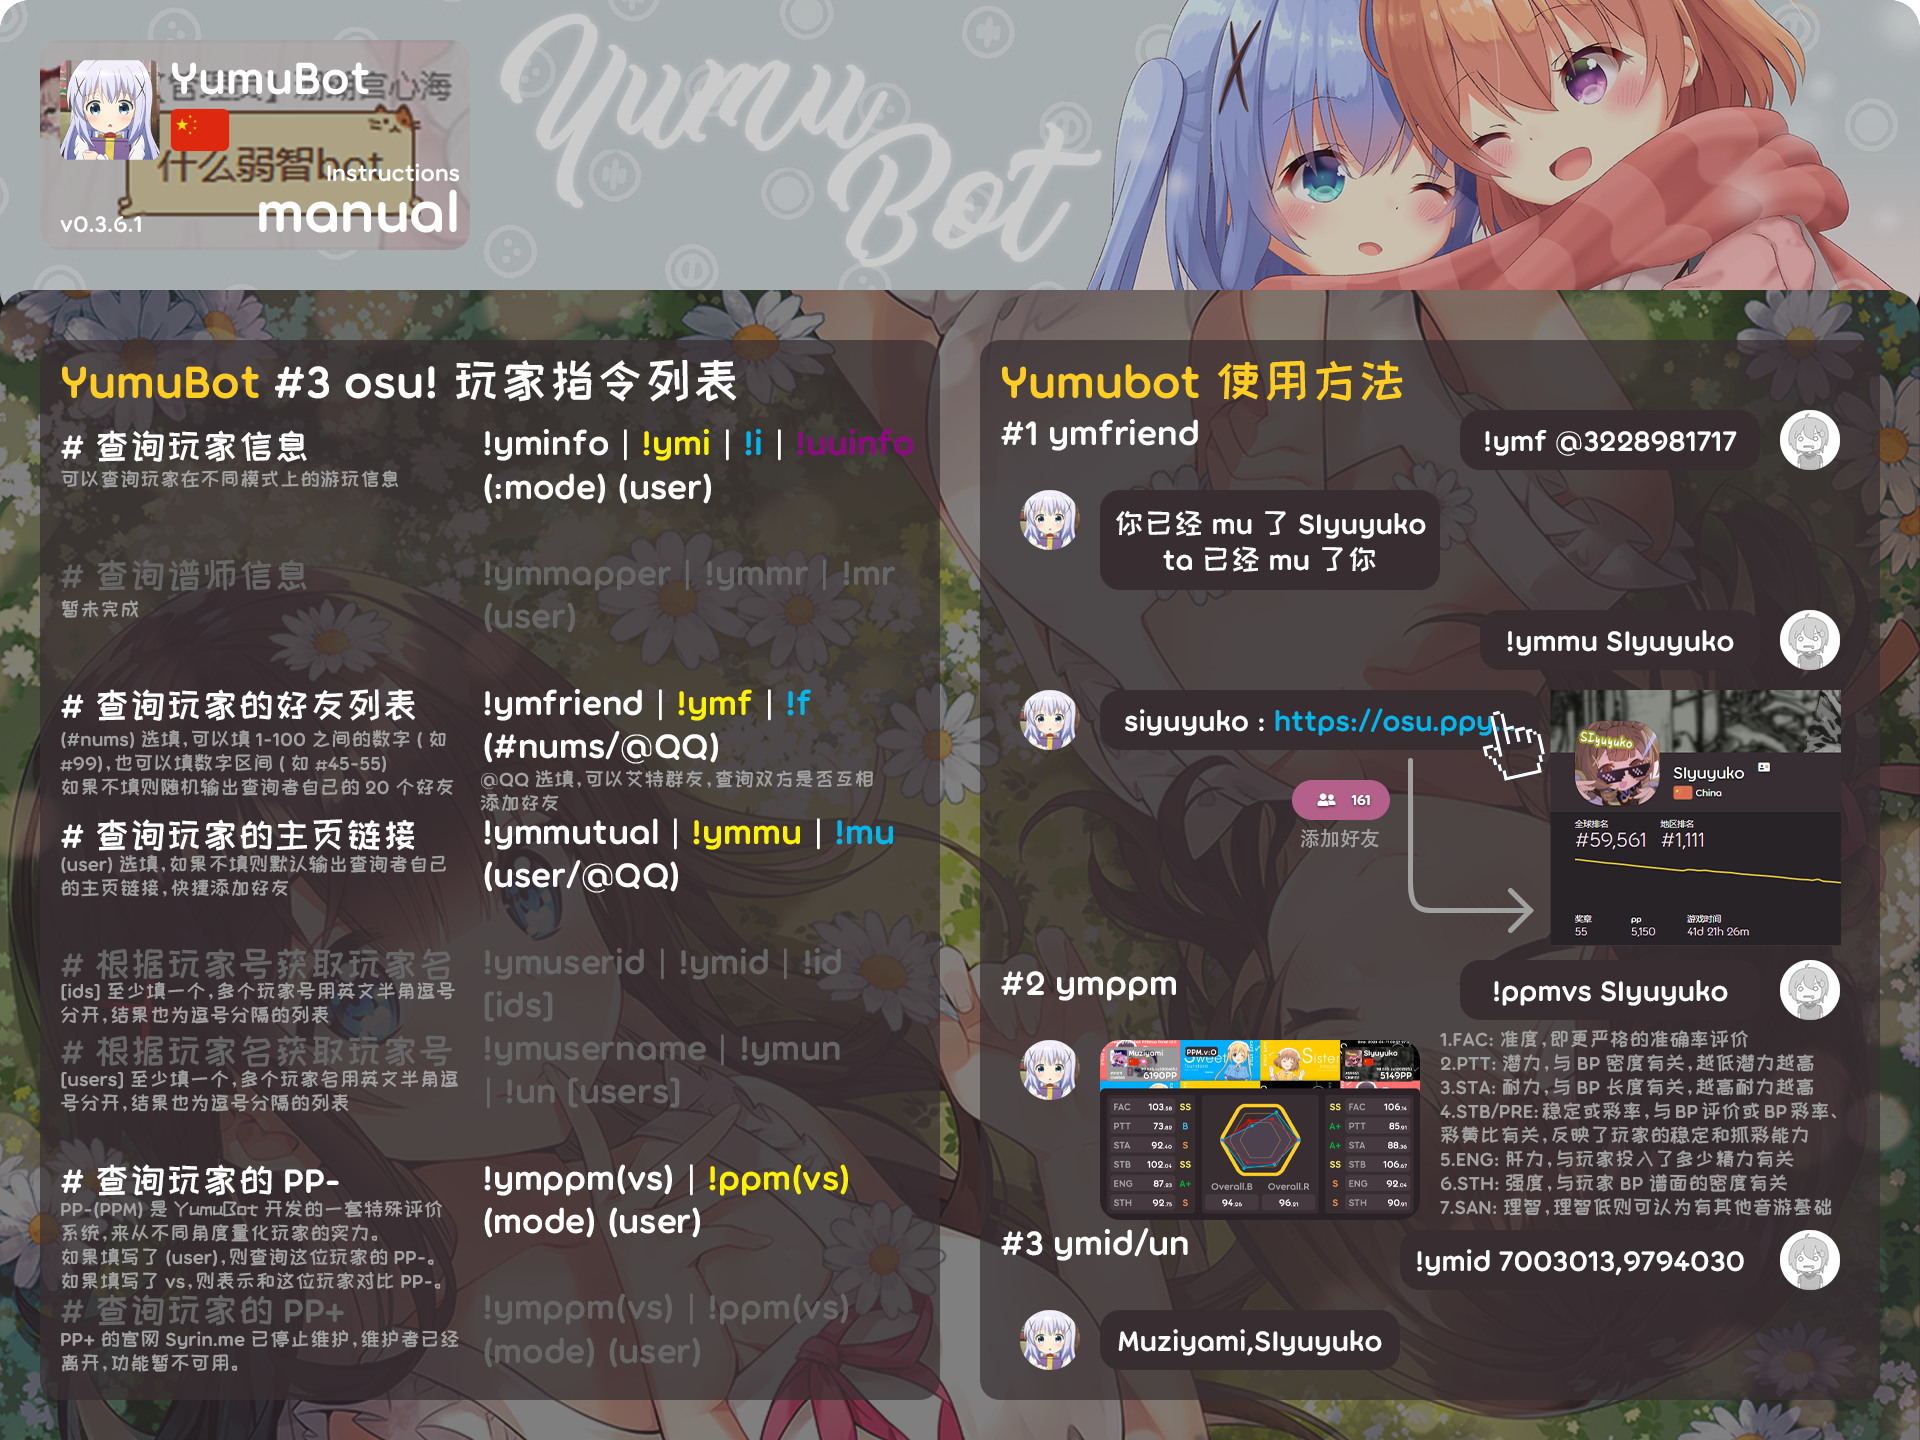
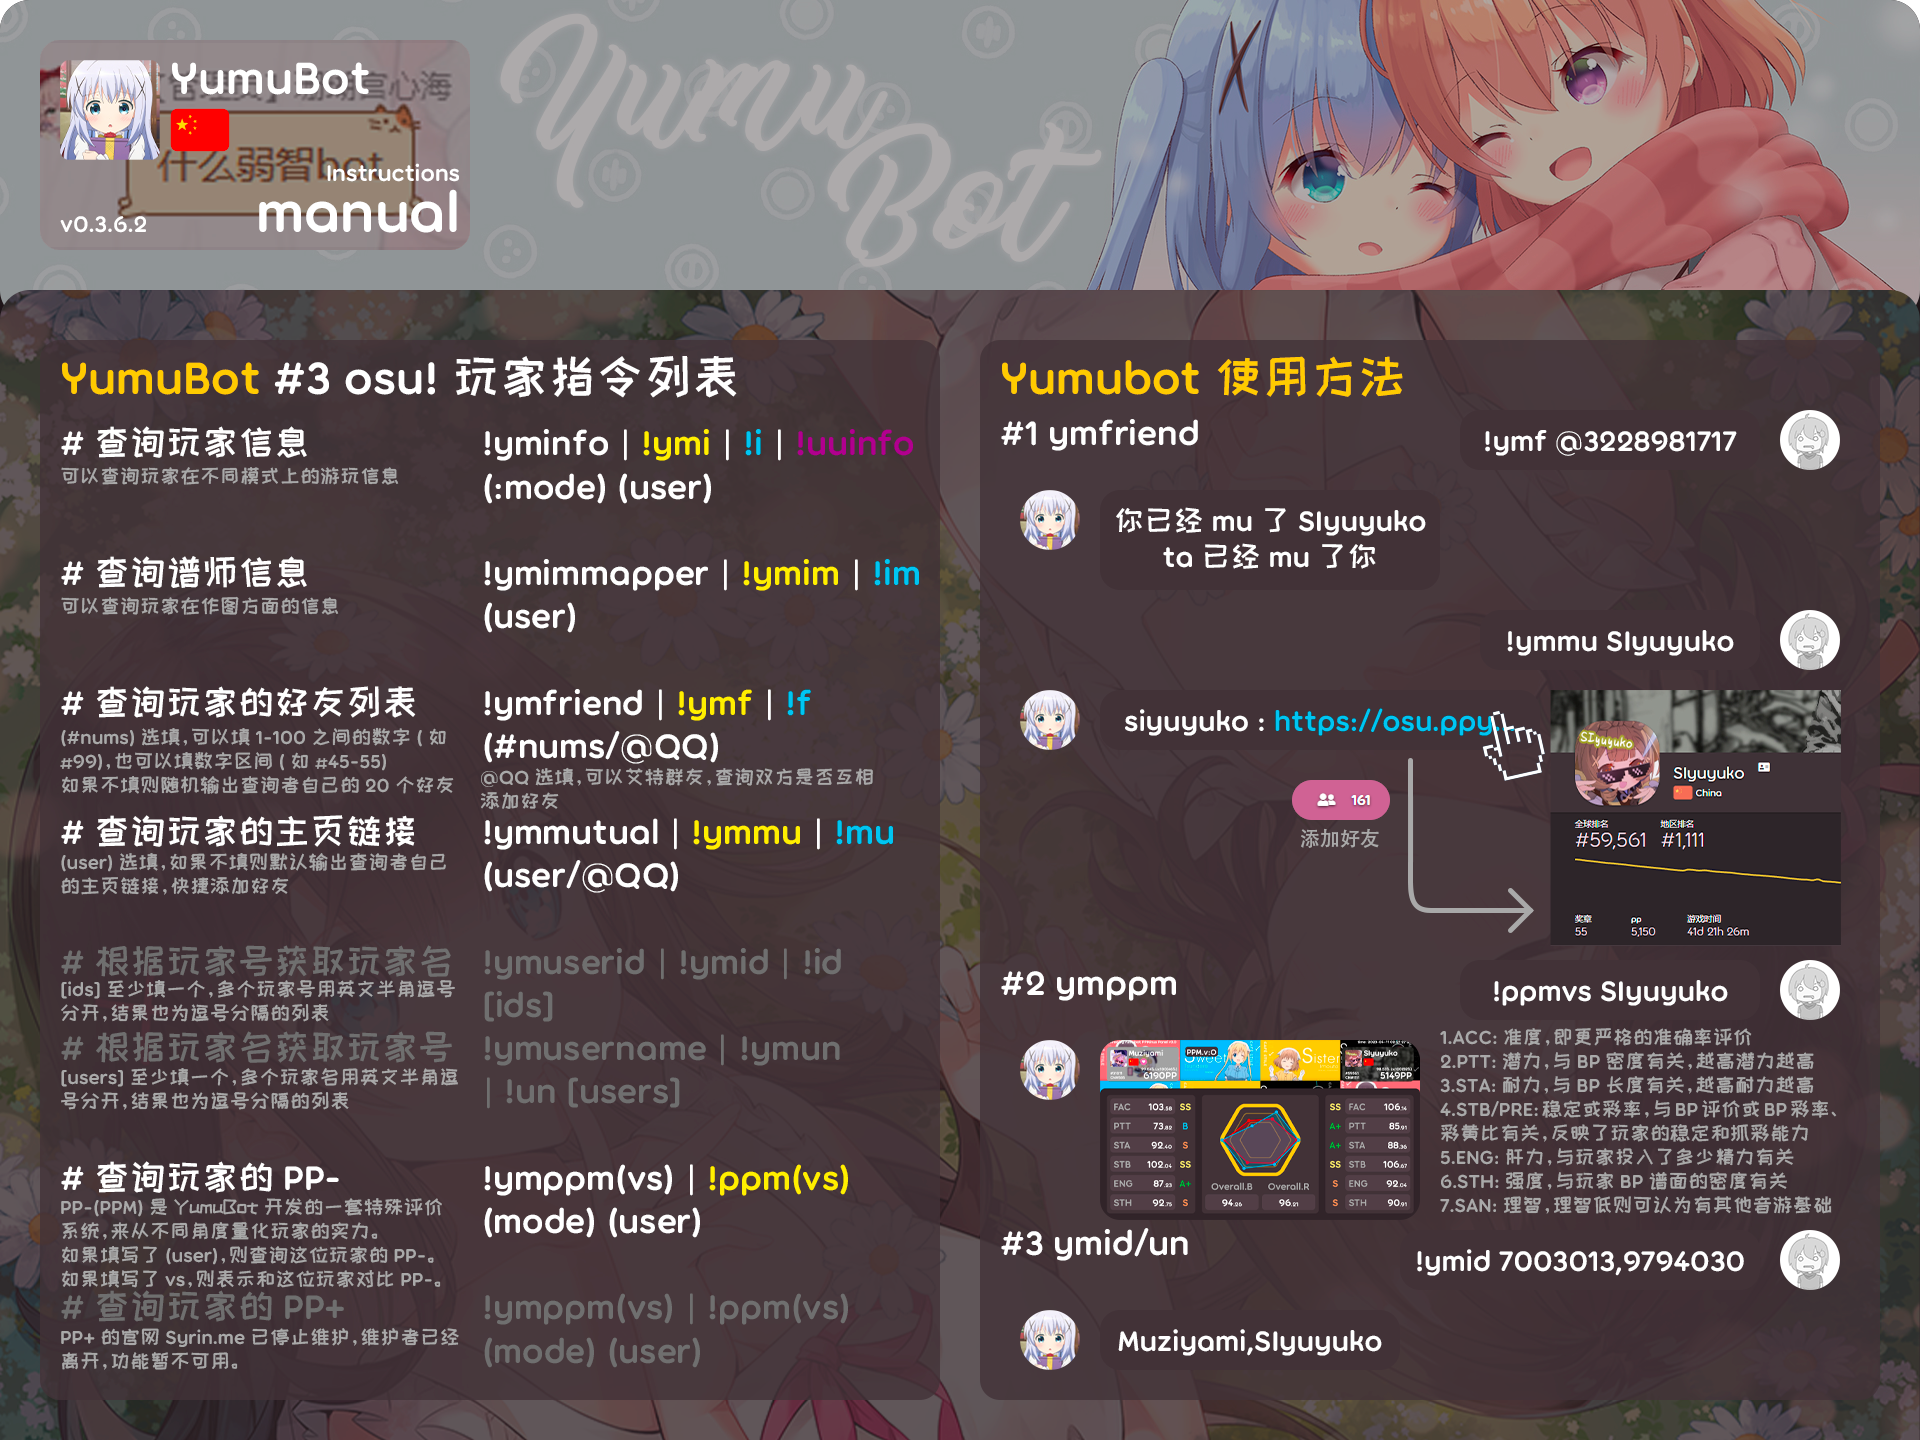
更新 im mapper

diff --git a/src/help/player.md b/src/help/player.md
@@ -63,7 +63,7 @@ copyright: false
 
 :::
 
-## ~~<HopeIcon icon="compass-drafting"/> 2 查询谱师信息 !ymimmapper (!im)~~
+## <HopeIcon icon="compass-drafting"/> 2 查询谱师信息 !ymimmapper (!im)
 
 可以查询玩家 <HopeIcon icon="map"/> 在制作谱面（作图，Beatmapping）方面的信息。
 
@@ -73,9 +73,33 @@ copyright: false
 
 - **<HopeIcon icon="address-card"/> 玩家名**：同上。
 
-::: info 备注
+![IMapper 面板](img/bot-im.png)
 
-暂未开放
+**内容解析**
+
+::: details 内容解析
+
+- **左上角**：玩家的 <HopeIcon icon="circle-user"/> 头像、<HopeIcon icon="heading"/> 名称、玩家所属的 <HopeIcon icon="users"/> 组织。
+  - Ranked：玩家制作的 <HopeIcon icon="angles-up"/> 上架谱面数量。
+  - Pending：玩家制作的 <HopeIcon icon="circle-question"/> 待定谱面数量和当前玩家待定谱面的 <HopeIcon icon="file-circle-question"/> 总位置（不会多于此值）。
+  - Guest：玩家制作的 <HopeIcon icon="user-pen"/> 客串（上架）谱面数量。
+- **Most Popular Beatmap**：玩家制作的 <HopeIcon icon="user-check"/> 最受欢迎的前六张谱面。
+- **Genre**：玩家制作的谱面内所有关于 <HopeIcon icon="guitar"/> 曲风的 <HopeIcon icon="tag"/> 标签数量。
+- **Recent Activity**：玩家 <HopeIcon icon="hourglass"/> 最近在作图内的 <HopeIcon icon="person-walking"/> 活动。
+- **Recent Host/Guest**：玩家 <HopeIcon icon="hourglass"/> 最近的上架谱面和 <HopeIcon icon="user-pen"/> 客串（上架）谱面。
+- **右下角**：玩家的其他作图 <HopeIcon icon="chart-simple"/> 统计数据。
+  - Favorite：谱面所有 <HopeIcon icon="heart-circle-plus"/> 收藏数。
+  - Play Count：谱面所有 <HopeIcon icon="circle-play"/> 游玩数。
+  - Comment：玩家 <HopeIcon icon="comment"/> 评论数。
+  - Nominated：玩家 <HopeIcon icon="thumbs-up"/> 提名谱面的数量。
+  - Loved：玩家选入 <HopeIcon icon="heart"/> 社区心选谱面的数量。
+  - Graveyard：玩家制作的 <HopeIcon icon="cross"/> 坟场谱面。
+
+:::
+
+::: warning 注意
+
+繁重功能，查询结果将会在 5-10 秒内返回。如果 Bot 消息发送失败，请稍后再重试，切勿刷屏查询。
 
 :::
 
@@ -93,6 +117,12 @@ copyright: false
   - 如果 <HopeIcon icon="circle-question"/> 不输入任何值，则默认随机查询二十个好友。
 - **<HopeIcon icon="at"/> QQ 用户**
   - 可以查询自己是否和对方互相关注（双向）。
+
+::: warning 注意
+
+繁重功能，查询结果将会在 5-10 秒内返回。如果 Bot 消息发送失败，请稍后再重试，切勿刷屏查询。
+
+:::
 
 ## <HopeIcon icon="link"/> 4 查询玩家的主页链接 !ymmutual (!mu)
 
@@ -163,7 +193,6 @@ copyright: false
 ```
 
 :::
-
 
 **内容解析**
 
